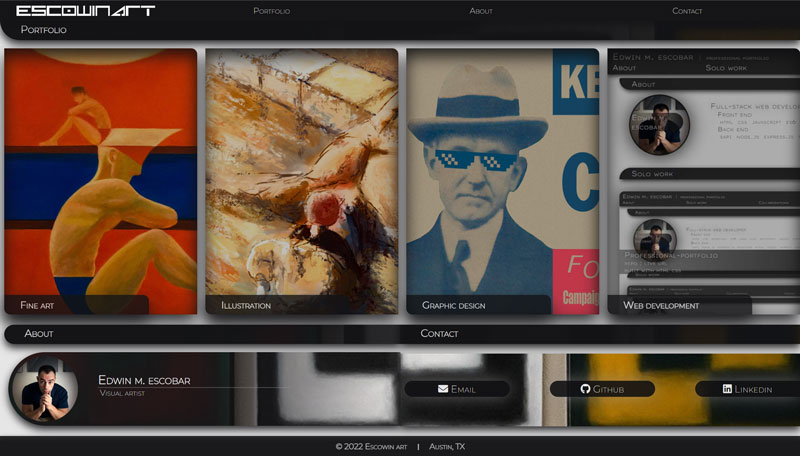
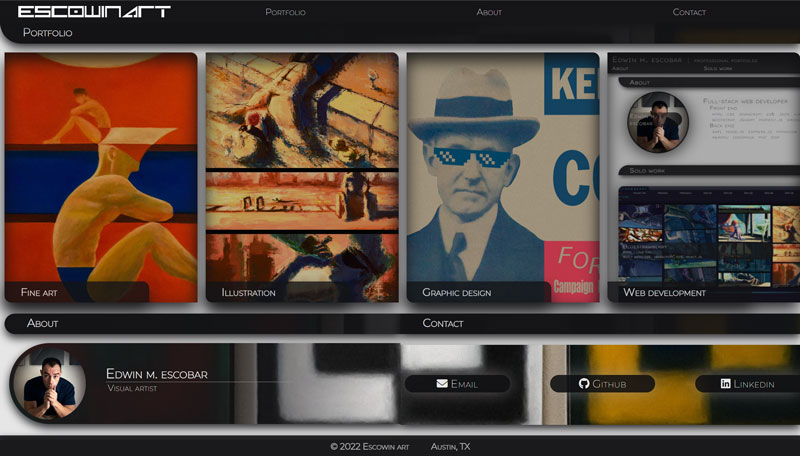
randomized .portfolio bg-img; adjusted css styles

diff --git a/assets/js/index.js b/assets/js/index.js
@@ -1,17 +1,4 @@
-// - gets & displays current year
-function currentYear() {
-  let date = new Date().getFullYear();
-  console.log(`
-    \u00A9 ${date} Edwin M. Escobar
-    https://github.com/escowin/escowinart
-    `);
-  const dateEl = document.querySelector("#date");
-  dateEl.textContent = date;
-}
-currentYear();
-
 // note: either modularize code base, or do an if statement. if (this page = ./index.html) { run code blow }
-
 // dom
 const portfolioLinkEl = document.getElementById("portfolio-link");
 const aboutLinkEl = document.getElementById("about-link");
@@ -21,15 +8,43 @@ const aboutSection = document.getElementById("about");
 const contactSection = document.getElementById("contact");
 
 // data
-let fineartArr = ["art 1", "art 2", "art 3", "art 4", "art 5"];
-let illustrationArr = ["img 1", "img 2", "img 3", "img 4", "img 5"];
-let graphicdesignArr = [
-  "graphic 1",
-  "graphic 2",
-  "graphic 3",
-  "graphic 4",
-  "graphic 5",
+let fineartArr = [
+  'url("./assets/images/artwork/fineart/edwin-escobar-set-001.jpg")',
+  'url("./assets/images/artwork/fineart/edwin-escobar-set-002.jpg")',
+  'url("./assets/images/artwork/fineart/edwin-escobar-set-003.jpg")',
+  'url("./assets/images/artwork/fineart/edwin-escobar-set-004.jpg")',
+  'url("./assets/images/artwork/fineart/edwin-escobar-set-005.jpg")',
 ];
+let illustrationArr = [
+  'url("./assets/images/artwork/illustration/bluestrawberry/edwin-escobar-20171018-bluestrawberry-01.jpg")',
+  'url("./assets/images/artwork/illustration/bluestrawberry/edwin-escobar-20171025-bluestrawberry-02.jpg")',
+  'url("./assets/images/artwork/illustration/bluestrawberry/edwin-escobar-20171112-bluestrawberry-03.jpg")',
+  'url("./assets/images/artwork/illustration/bluestrawberry/edwin-escobar-20180502-bluestrawberry-04.jpg")',
+  'url("./assets/images/artwork/illustration/bluestrawberry/edwin-escobar-20180509-bluestrawberry-05.jpg")',
+  'url("./assets/images/artwork/illustration/bluestrawberry/edwin-escobar-20180516-bluestrawberry-06.jpg")',
+  'url("./assets/images/artwork/illustration/bluestrawberry/edwin-escobar-20180523-bluestrawberry-07.jpg")',
+  'url("./assets/images/artwork/illustration/bluestrawberry/edwin-escobar-20180530-bluestrawberry-08.jpg")',
+  'url("./assets/images/artwork/illustration/bluestrawberry/edwin-escobar-20200819-bluestrawberry-hungover-03.jpg")',
+  'url("./assets/images/artwork/illustration/bluestrawberry/edwin-escobar-20201002-bluestrawberry-gertrude.jpg")',
+];
+let graphicdesignArr = [
+  'url("./assets/images/artwork/graphic-design/edwin-escobar-20210220-capitalism.png")',
+  'url("./assets/images/artwork/graphic-design/edwin-escobar-20210225-made-in-a-lab.png")',
+  'url("./assets/images/artwork/graphic-design/edwin-escobar-20220515-cool-with-coolidge.jpg")',
+  'url("./assets/images/artwork/graphic-design/edwin-escobar-20220515-mindlessly-parrot-social-media.png")',
+  'url("./assets/images/artwork/graphic-design/edwin-escobar-20220515-stop-being-poor.png")',
+];
+
+// - gets & displays current year
+function currentYear() {
+  let date = new Date().getFullYear();
+  console.log(`
+      \u00A9 ${date} Edwin M. Escobar
+      https://github.com/escowin/escowinart
+      `);
+  const dateEl = document.querySelector("#date");
+  dateEl.textContent = date;
+}
 
 // portfolio display logic | read from bottom to top
 // - displays the randomly chosen portfolio bg urls each time the user loads the page
@@ -38,9 +53,9 @@ function displayPortfolios(portfolio) {
   const fineartPortfolio = document.getElementById("fine-art");
   const graphicdesignPortfolio = document.getElementById("graphic-design");
 
-  console.log(portfolio[0]); // fine art
-  console.log(portfolio[1]); // illustration
-  console.log(portfolio[2]); // graphic design
+  fineartPortfolio.style.backgroundImage = portfolio[0];
+  illustrationPortfolio.style.backgroundImage = portfolio[1];
+  graphicdesignPortfolio.style.backgroundImage = portfolio[2];
 }
 
 // - shuffles the portfolio array
@@ -98,7 +113,8 @@ function clickedLink(link) {
   portfolioFocus(link);
 }
 
-// calls | passing in the constant value to alter visuals
+// calls
+currentYear();
 getPortfolios(fineartArr, illustrationArr, graphicdesignArr);
 
 portfolioLinkEl.addEventListener("click", () => {

diff --git a/graphic-design.html b/graphic-design.html
@@ -41,7 +41,7 @@
             <h3 class="dark graphic-header shadow">id</h3>
             <section class="artwork-container">
                 <img
-                src="./assets/images/artwork/graphicdesign/edwin-escobar-20220515-cool-with-coolidge.jpg"
+                src="./assets/images/artwork/graphic-design/edwin-escobar-20220515-cool-with-coolidge.jpg"
               />
             </section>
         </article>
@@ -50,7 +50,7 @@
             <h3 class="dark graphic-header shadow">ego</h3>
             <section class="artwork-container">
                 <img
-                src="./assets/images/artwork/graphicdesign/edwin-escobar-20220515-stop-being-poor.png"
+                src="./assets/images/artwork/graphic-design/edwin-escobar-20220515-stop-being-poor.png"
               />
             </section>
         </article>
@@ -59,7 +59,7 @@
             <h3 class="dark graphic-header shadow">super-ego</h3>
             <section class="artwork-container" id="super-ego">
                 <img
-                src="./assets/images/artwork/graphicdesign/edwin-escobar-20220515-mindlessly-parrot-social-media.png"
+                src="./assets/images/artwork/graphic-design/edwin-escobar-20220515-mindlessly-parrot-social-media.png"
               />
             </section>
         </article>

diff --git a/assets/css/style.css b/assets/css/style.css
@@ -142,10 +142,10 @@ main {
 
 .portfolio {
   color: var(--primary);
-  background-color: transparent;
-  min-height: 8rem;
-  background-position: center;
+  min-height: 15rem;
   background-size: cover;
+  background-position: center;
+  background-color: var(--secondary);
   box-shadow: inset var(--box-shadow) var(--tertiary), var(--box-shadow) var(--tertiary);
   border-radius: 0 .75rem;
   transition: 2s;
@@ -166,21 +166,13 @@ main {
   transition: 1s;
 }
 
-#fine-art {
-  background-image: url('../images/portfolio-fineart.jpg');
-  background-position: center 45%;
-}
-
-#illustration {
-  background-image: url('../images/artwork/illustration/bluestrawberry/edwin-escobar-20171025-bluestrawberry-02.jpg');
-}
-
 #graphic-design {
-  background-image: url('../images/artwork/graphicdesign/edwin-escobar-20220515-cool-with-coolidge.jpg');
+  background-size: contain;
 }
 
 #coding {
   background-image: url('../images/portfolio-coding.jpg');
+  background-position: left;
 }
 
 .wrapper {
@@ -377,8 +369,9 @@ a:hover {
 
   .portfolio {
     min-height: 40vh;
-    background-position: left;
   }
+
+  /* illustration key animation : move bg-position from top to bottom, reverse, infinite loop */
 
   .subhead {
     padding-top: .25rem;

diff --git a/index.html b/index.html
@@ -110,8 +110,8 @@
         <a href="https://github.com/escowin/escowinart/" target="_blank">
           &copy; <span id="date"></span> Escowin art
         </a>
-        &emsp;&#8739;&emsp;
-        Austin, TX 
+        &emsp;&emsp;
+        Austin, TX
       </h2>
     </footer>
   </body>
